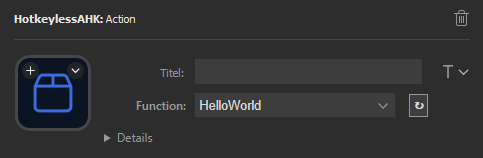
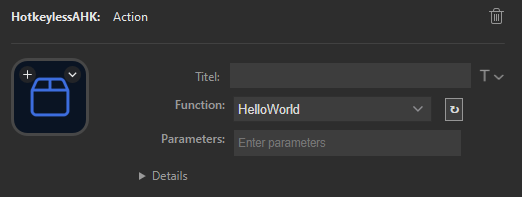
Update documentation and README

diff --git a/README.md b/README.md
@@ -4,22 +4,23 @@
 </p>
 <p>&nbsp;</p>
 
-## Hotkeyless AutoHotkey
+## Hotkeyless AutoHotkey - Using the power of AutoHotkey without hotkeys! 
 
 [![AHK Version](https://img.shields.io/badge/AHK%20Version-v2-green)](https://www.autohotkey.com/docs/v2/)
 [![Release](https://img.shields.io/github/v/release/sebinside/HotkeylessAHK)](https://github.com/sebinside/HotkeylessAHK/releases)
-[![AHK Version](https://img.shields.io/badge/Stream%20Deck%20Plugin-Available-purple)](https://github.com/sebinside/HotkeylessAHK?tab=readme-ov-file#elgato-stream-deck-plugin)
+[![AHK Version](https://img.shields.io/badge/Elgato%20Stream%20Deck%20Plugin-Available-purple)](https://github.com/sebinside/HotkeylessAHK?tab=readme-ov-file#elgato-stream-deck-plugin)
 
 The **AutoHotkey** (AHK) environment is a *powerful tool* to enhance your productivity and *speed up your workflow*. There are so many possibilities and use cases that sometimes... you might *run out of hotkeys*. Or you might want to *combine* AHK-scripts or trigger them from different sources or even from other computers in your local network.
 
-Until now, you had only *two possible solutions*:
+Until now, you had only *two viable solutions*:
 
-- **Exotic key combinations**, like... `CTRL + ALT + F13`. This solution is **fast**, but not very scalable. You might not remember, which hotkeys are still available and sometimes encounter bad side effects with your favorite software
-- **Single AHK-scripts**, which you run directly from AHK or the explorer window. This solution is **scalable**, but how can you live with the delay of the AHK-process starting up?
+- **Exotic key combinations**, like... `CTRL + ALT + F13`. This solution is **fast**, but not very scalable. You might not remember, which hotkeys are still available and sometimes encounter bad side effects with your favorite software.
+- **Single AHK-scripts**, which you run directly from AHK or the explorer window. This solution is somewhat **scalable**, well, 
+until you loose track of all your AHK files. Additionally, how can you live with the delay of the AHK-process starting up?
 
 **Hotkeyless AutoHotkey** combines the best of both worlds. It's an easy way to expand your AHK-capabilities, both **fast** and **scalable**. But don't take my word for it, here are some numbers:
 
-| Approach                | Delay    | Fast | Scalable |
+| Approach                | Call Delay    | Fast | Scalable |
 | ----------------------- | :------- | :--: | :------: |
 | Key combinations        | ~ 10 ms  |  ✔   |    🞭    |
 | Single AHK scripts      | ~ 92 ms  |  🞭   |    ✔    |
@@ -27,11 +28,11 @@ Until now, you had only *two possible solutions*:
 
 You can make your own *performance tests*. Just have a look at the `performance-tests`-folder!
 
-Also, **Hotkeyless AutoHotkey** enables the execution of AutoHotkey code from other computers in the same local network. And we also provide a **Stream Deck** plugin, that enables calling AHK code by simply pressing a button (and without cluttering up your shortcut list).
+Also, **Hotkeyless AutoHotkey** enables the execution of AutoHotkey code from other computers in the same local network. And we also provide a complementary **Elgato Stream Deck** plugin, that enables calling AHK code by simply pressing a button (and without cluttering up your shortcut list).
 
-## Functionality
+## Functionality, in a nutshell
 
-**Hotkeyless AHK** launches a lightweight web server. Per default, it listens to the endpoint `localhost:42800/send/*` for http requests and redirects them to the `HotkeylessAHK.ahk` script. Simply put, if you call `localhost:42800/send/HelloWorld`, the `HelloWorld()`-function inside the AHK-file is executed:
+**Hotkeyless AHK** internally launches a lightweight web server. Per default, it listens to the endpoint `localhost:42800/send/*` for HTTP requests and redirects them to the `HotkeylessAHK.ahk` script. Simply put, if you call `localhost:42800/send/HelloWorld` using `curl` or by opening it in your web browser, the `HelloWorld()` function inside the AHK-file is executed:
 
 ```ahk
 HelloWorld() {
@@ -39,9 +40,18 @@ HelloWorld() {
 }
 ```
 
-Also, you can include your AHK-scripts and define custom functionality in a nice and clean way - without loosing too much performance. You can use your web browser, shortcuts or the [Elgato Stream Deck](https://www.elgato.com/gaming/stream-deck) with the **HotkeylessAHK** plugin. This plugin automatically crawls existing functions and lets you call them easily.
+Furthermore, you can include your own AHK scripts using the `#Include` directive and define custom functionality in a nice and clean way - without loosing too much performance. You can use your web browser, shortcuts, or the [Elgato Stream Deck](https://www.elgato.com/gaming/stream-deck) with the **HotkeylessAHK** plugin. This plugin automatically browses existing functions and lets you call them easily.
 
-![Stream Deck example](streamdeck.PNG)
+![Stream Deck example](streamdeck.png)
+
+To increase the reusability of your AHK functions, **HotkeylessAHK** allows you to also pass parameters to the called function, see the example provided in the main [HotkeylessAHK.ahk](https://github.com/sebinside/HotkeylessAHK/blob/main/HotkeylessAHK.ahk) file:
+
+```ahk
+; can be called using the URL "localhost:<serverPort>/send/FunctionWithParams?Hello,World"
+FunctionWithParams(param1, param2) { 
+    MsgBox "Param1: " . param1 . "`nParam2: " . param2
+}
+```
 
 ## Installation
 
@@ -50,44 +60,96 @@ Also, you can include your AHK-scripts and define custom functionality in a nice
 *Note: Requires Windows 10 or newer*
 
 1. Install [AutoHotkey](https://www.autohotkey.com/). Well... if you're reading this, you probably already have.
-2. Install node. You can download it from https://nodejs.org/. Make sure that node is in the PATH-variable and available from the console. You can test this by executing `node -v`
-3. Clone or download this repository. You can also just head over to [releases](https://github.com/sebinside/HotkeylessAHK/releases)
-4. Open a console window and enter the `files` folder. Then, execute `npm i` to install all web server dependencies.
+2. Install Node.js. You can download it from https://nodejs.org/. Make sure that Node.js is in the PATH-variable and available from the console. You can test this by opening a console window and executing `node -v`.
+3. Clone or download this repository. You can also just head over to [releases](https://github.com/sebinside/HotkeylessAHK/releases).
+4. Open a console window within `files` folder. Then, execute `npm i` to install all web server dependencies.
 5. Start *Hotkeyless AutoHotkey* by executing the `HotkeylessAHK.ahk`-file.
 6. Open your web browser and navigate to `http://localhost:42800/send/HelloWorld`. This should open a message dialog, triggered by the `HotkeylessAHK.ahk`-file.
 7. Now, you're ready to go.
 
-*Troubleshooting*: If anything does not work, disable console window hiding by deleting lines 3 and 4 in the `SetupServer()`-method in the `files/lib.ahk`-file and restart the process. This might give you more information.
-
-```
-DllCall("AllocConsole")
-WinHide % "ahk_id " DllCall("GetConsoleWindow", "ptr")
-```
+*Troubleshooting*: If anything does not work, enable debug mode by setting the boolean value `debug` in the `HotkeylessAHK.ahk` to true. See the section [Configuration](https://github.com/sebinside/HotkeylessAHK?tab=readme-ov-file#configuration) for more details.
 
 ### Elgato Stream Deck Plugin
 
 1. Clone or download this repository or a release of it. You probably already have done this during the installation of **HotkeylessAHK** explained above.
 2. Make sure you are using a [Elgato Stream Deck](https://www.elgato.com/gaming/stream-deck) and have the Stream Deck Software installed.
-3. Identify the Stream Deck Software plugin folder. On windows, it should be located here: `%appdata%\Elgato\StreamDeck\Plugins\`. Find more information in the [developer documentation](https://developer.elgato.com/documentation/stream-deck/sdk/create-your-own-plugin/).
+3. Identify the Stream Deck Software plugin folder. On Windows, it should be located here: `%appdata%\Elgato\StreamDeck\Plugins\`. Find more information in the [developer documentation](https://docs.elgato.com/streamdeck/sdk/introduction/getting-started/).
 4. Copy everything inside of the `stream-deck-plugin` folder into the plugin folder of the Stream Deck Software. It should look like this: `%appdata%\Elgato\StreamDeck\Plugins\de.sebinside.hotkeylessahk.sdPlugin`.
 5. Restart the Stream Deck Software. The new plugin should appear in your plugin list.
 
 ## Usage
 
-Once installed, the usage of **Hotkeyless AutoHotkey** is easy: Write your methods inside the `HotkeylessAHK.ahk`-file (or include other scripts) and call them with your web browser, the `curl`-console command, a stream deck, ...
+Once installed, the usage of **Hotkeyless AutoHotkey** is easy: Write your functions inside the `HotkeylessAHK.ahk`-file (or include other scripts) and call them with your web browser, the `curl` console command, an Elgato Stream Deck, ...
 
-The endpoint is always the same: `http://localhost:42800/send/YourFunctionNameGoesHere`.
+For keep everything tidy, all functions are organized in classes. By default, the main `HotkeylessAHK.ahk` file comprises one class called `CustomFunctions`:
 
-To terminate the running tool, call `http://localhost:42800/send/kill`.
+```ahk
+Class CustomFunctions {
+    HelloWorld() {
+        MsgBox "Hello, World!"
+    }
+    ; ....
+}
+```
+
+The endpoint, however, is always the same, per default: `http://localhost:42800/send/YourFunctionNameGoesHere`.
+
+To terminate the running tool, call the reserved kill command name `http://localhost:42800/send/kill`.
 
 If you're using the [Elgato Stream Deck](https://www.elgato.com/gaming/stream-deck) plugin, you will not have to deal with the internals.
 
+## Configuration
+
+**HotkeylessAHK** comes with a working configuration out of the box. However, a couple of things can be configured in the main `HotkeylessAHK.ahk` file:
+
+```ahk
+serverPort := 42800 ; sets the server port of the HotkeylessAHK server
+functionClassNames := ["CustomFunctions"] ; lists all class names where HotkeylessAHK can call your custom functionality
+debug := false ; setting this to true shows the normally hidden console window of the running HotkeylessAHK server
+```
+
+## Security
+
+Please note, that **HotkeylessAHK** is not meant to be used in insecure environments as there are *no* security measures like access control implemented! Everyone with access to your localhost can at least run any function that you defined and provided to **HotkeylessAHK**. We are not aware of further remote code execution possibilities via **HotkeylessAHK**, but as we also do not apply any kind of input sanitization, they are probably viable. TL;DR: **HotkeylessAHK** is insecure by design.
+
+## Under the Hood
+
+In the following, the functionality of **HotkeylessAHK** is explained in more detail.
+This section is for those who are interested, who want to enhance the tool (thank you!), and for myself in two years (also, thank you!).
+
+Put simply, **HotkeylessAHK** is just a message broker.
+It spawns a local web server that redirects *valid* incoming requests to a single subscriber, i.e., the AutoHotkey script.
+To decide whether an incoming request is valid, it keeps a list of all function names of all classes specified in the `functionClassNames` parameter, see [Configuration](https://github.com/sebinside/HotkeylessAHK?tab=readme-ov-file#configuration).
+The subscribing AutoHotkey script waits for a response to its request to the **HotkeylessAHK** server and executes the according function.
+If the function name is `kill`, the script first asks the Node.js server to shut down and than terminates itself.
+
+The following sequence diagram summarizes the communication of **HotkeylessAHK** with other services like the Stream Deck plugin:
+
+```mermaid
+sequenceDiagram
+    HotkeylessAHK.ahk->>+Server: setupServer()
+    HotkeylessAHK.ahk->>+Client: runClient()
+    Client->>Server: register(functions)
+    Client->>Server: subscribe()
+    Stream Deck Plugin->>Server: list()
+    Server-->>Stream Deck Plugin: functions
+    loop 
+    Stream Deck Plugin->>Server: send(function,params)
+    Server->>Client: call(function,params)
+    end
+    Stream Deck Plugin->>Server: send("kill",_)
+    Server->>Client: call("kill",_)
+    Client->>Server: kill()
+    Server-->>-HotkeylessAHK.ahk: 
+    Client-->>-HotkeylessAHK.ahk: 
+```
+
 ## More
 
-This is yet another small tool to enhance the power of AHK. Some more links, you might find interesting:
+This is yet another small tool to enhance the power of AHK. Here are some more links, you might find interesting:
 
-- **[AHK2PremiereCEP](https://github.com/sebinside/AHK2PremiereCEP)**, another utility tool from me which helps you connect AutoHotkey with the Adobe Premiere CEP scripting environment. A very helpful tool for video production.
+- **[PremiereRemote](https://github.com/sebinside/PremiereRemote)**, another utility tool from me which helps you connect AutoHotkey with the Adobe Premiere CEP scripting environment. A very helpful tool for video production.
 - Taran Van Hemert, a macro specialist: https://www.youtube.com/user/TaranVH
 - And my own twitch channel, where I develop with these techniques: https://www.twitch.tv/skate702
 
-If there are more questions, you can contact me on [Twitter](https://twitter.com/skate702) or via [mail](mailto:hi@sebinside.de).
+If there are more questions, you can contact me via [mail](mailto:hi@sebinside.de), see [https://sebastianhahner.de/](https://sebastianhahner.de/).
